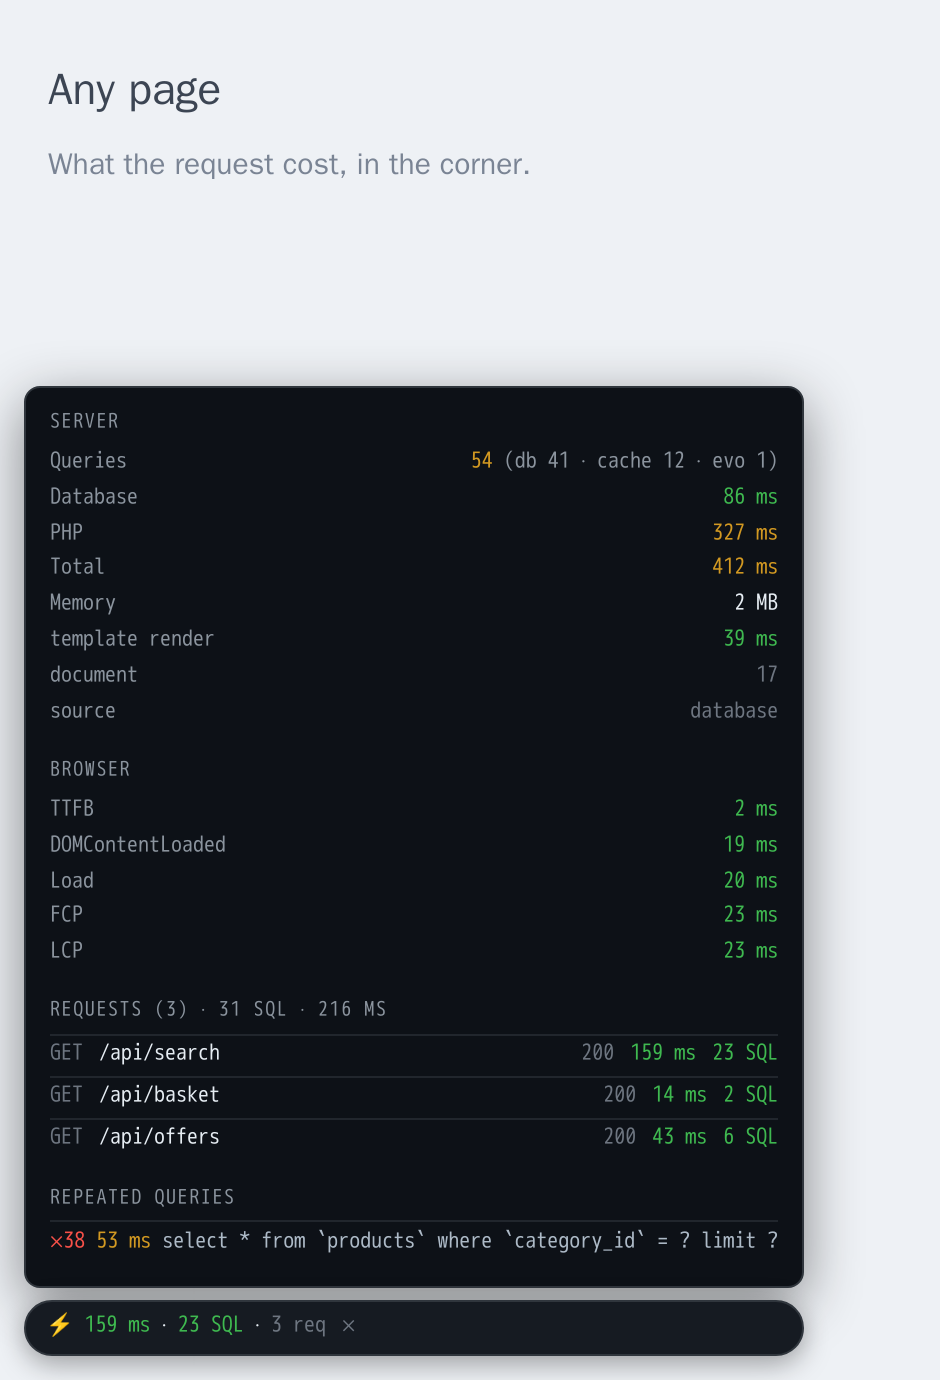
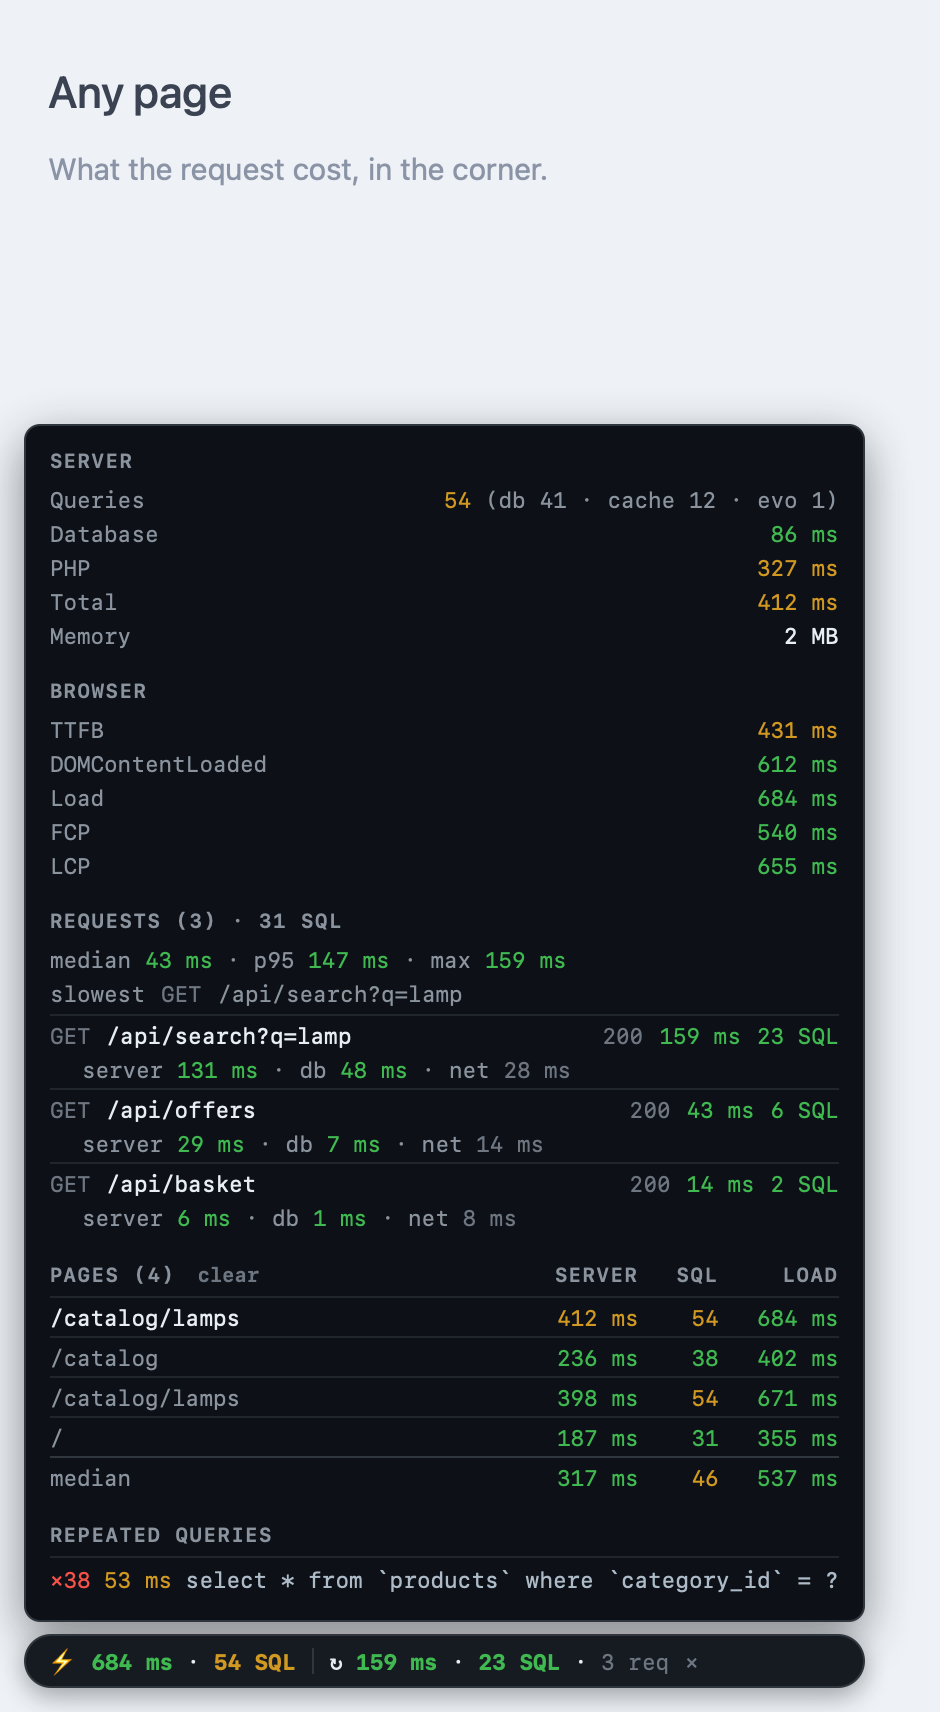
docs: show the 1.2.0 overlay in the README
The screenshot still showed a pill that read the last request alone, and a
panel with no split, no summary and no pages. The new one is taken from the
same kind of demo page with its figures fixed, so each number on it agrees
with the others: the page half of the pill is the Load row, the request half
is the last row of Requests, the median is the median of the rows above it.

The panel stops at 620 pixels and scrolls past them, so the frame leaves out
the mark and meta rows the old one had rather than cut the pages off; it is
taller because the panel is.

diff --git a/README.md b/README.md
@@ -9,7 +9,7 @@ Request performance overlay for PHP. A pill in the corner of the page reports
 what the request cost: database queries, server timings, browser metrics, and
 every XHR and fetch the page makes with its own server-side query count.
 
-<img src=".github/media/overlay.png" alt="The overlay open on a page, showing server timings, browser metrics, three tracked requests and a repeated query" width="470">
+<img src=".github/media/overlay.png" alt="The overlay open on a page, showing server timings, browser metrics, three tracked requests with their split, the pages loaded in the tab with their median, and a repeated query" width="470">
 
 - Framework-agnostic core. Integrations for Laravel, Evolution CMS 3, PSR-15 and plain PDO.
 - No runtime dependencies, no build step, no published assets: the CSS and the JS are inlined before `</body>`.
